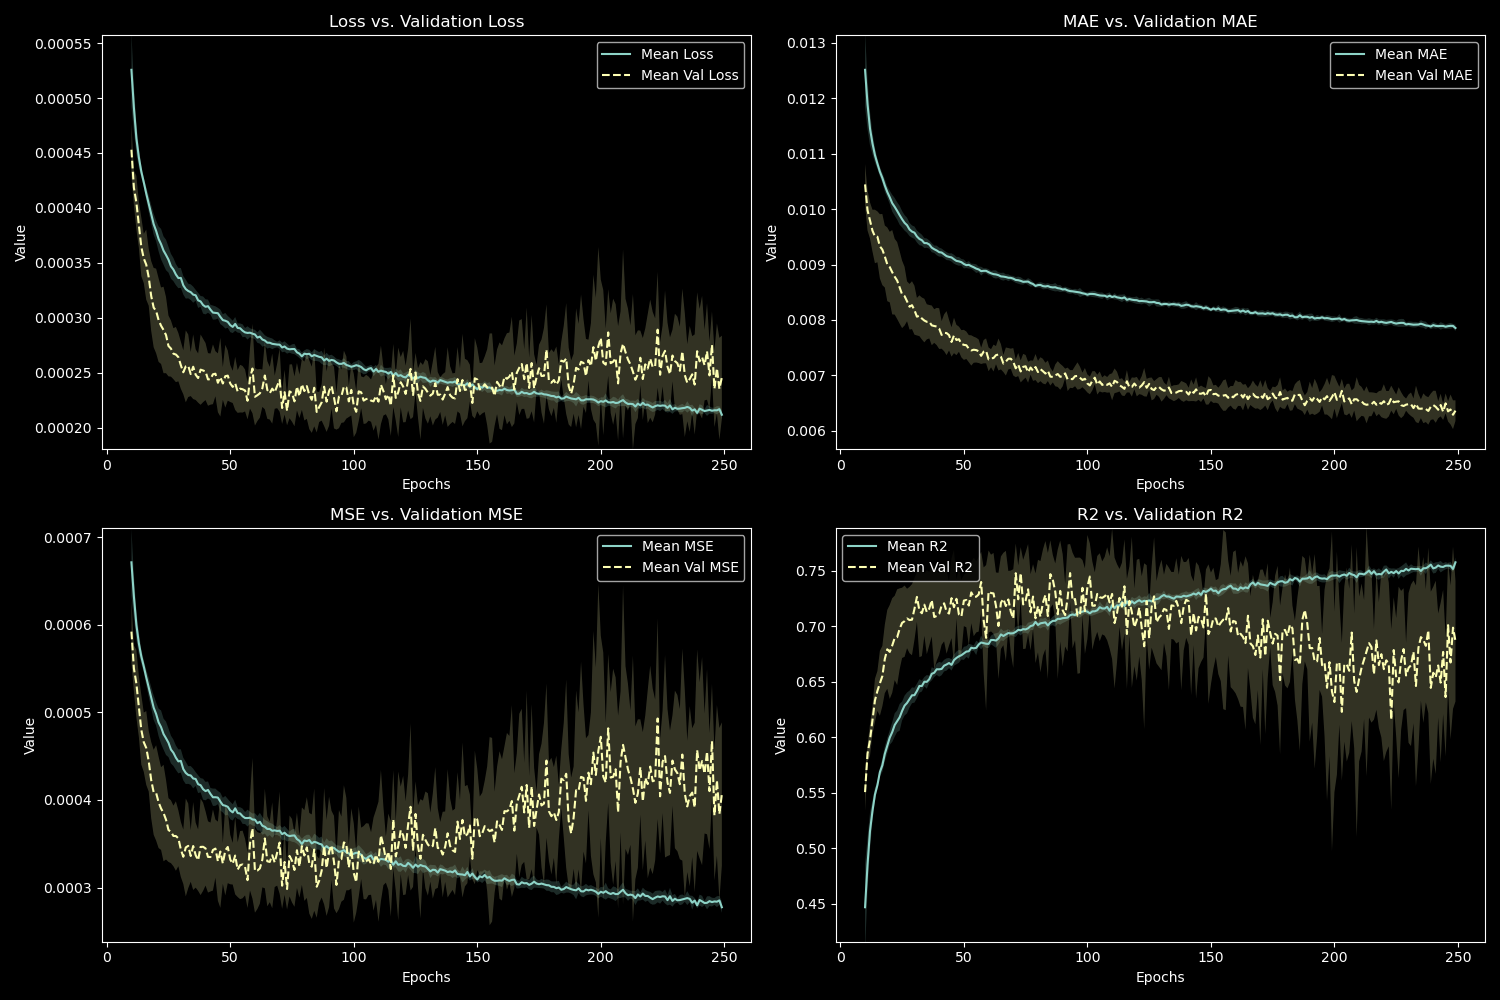
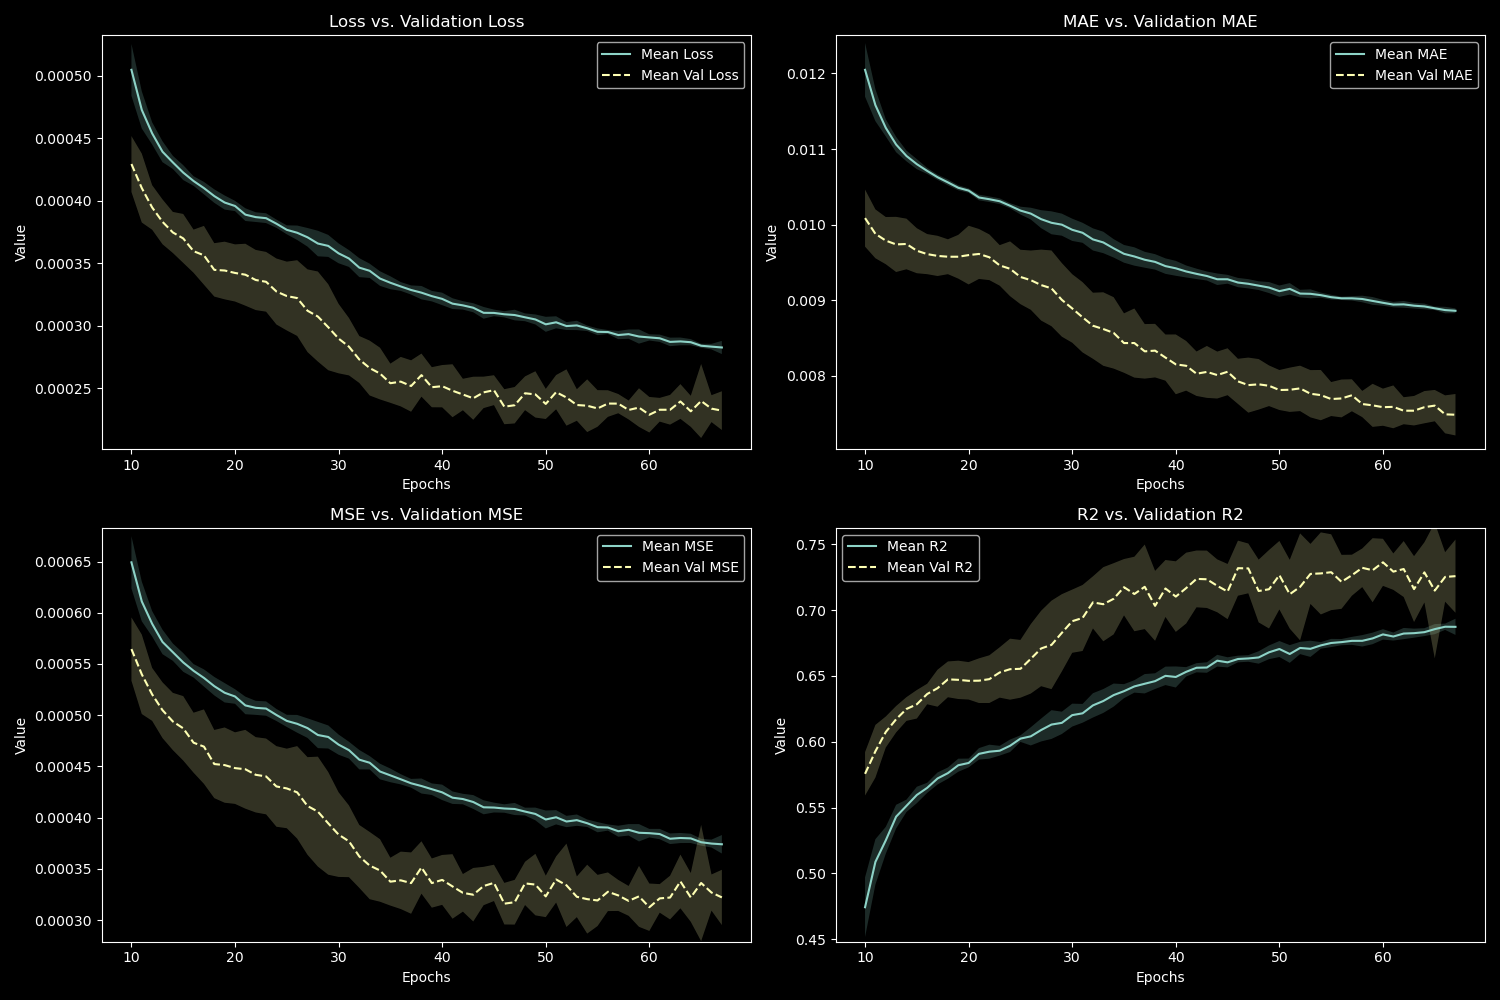
speed re-run

diff --git a/speed/speed_test.py b/speed/speed_test.py
@@ -7,6 +7,7 @@ from tensorflow.keras.models import load_model
 from xspec import FakeitSettings, AllModels, AllData, Model, Plot
 
 from modules.network import r_squared
+from general import save_figure
 
 from modules.variables import (
     path_to_data,
@@ -106,11 +107,11 @@ if 'norm' in model_file_path.name:
 flux_scaler = load(path_to_data_scaler / 'flux_scaler.joblib')
 predicted = []
 predicted_times = []
+model = load_model(model_file_path, custom_objects={'r_squared': r_squared})
 
 for i in range(n_spec):
     start_time = time.time()
     # Load the deep learning model
-    model = load_model(model_file_path, custom_objects={'r_squared': r_squared})
     model_par = parameters
     y_pred = model.predict(model_par.reshape(-1, model_par.shape[0]), verbose=0)
     y_pred_d = flux_scaler.inverse_transform(y_pred)
@@ -129,7 +130,8 @@ plt.xlabel("E (keV)", fontsize=14)
 plt.ylabel("counts / (keV s)", fontsize=14)
 plt.title("Comparison of XSPEC and ML Model Predictions", fontsize=16)
 plt.tight_layout()  # Adjust the plot to ensure everything fits without overlapping
-plt.savefig(path_to_plots / "spectra.png")
+#plt.savefig(path_to_plots / "spectra.png")
+save_figure(path_to_plots / "spectra.png")
     
 # Histogram
 plt.figure(figsize=(10, 6))
@@ -140,6 +142,7 @@ n_bins = max(len(set(times)), len(set(predicted_times)))  # Suggested dynamic bi
 plt.hist(times, bins=n_bins, alpha=0.7, label='Times XSPEC', color='blue', edgecolor='black', histtype='stepfilled')
 plt.hist(predicted_times, bins=n_bins, alpha=0.7, label='Times ML', color='orange', edgecolor='black', histtype='stepfilled')
 plt.yscale('log')
+plt.xscale('log')
 plt.xlabel('Time (s)', fontsize=14)
 plt.ylabel('Frequency', fontsize=14)
 plt.title('Times Distribution', fontsize=16)
@@ -147,5 +150,6 @@ plt.legend(fontsize=12)
 plt.grid(True, which='major', linestyle='--', linewidth=0.5, alpha=0.7)
 plt.tick_params(axis='both', which='major', labelsize=12)
 plt.tight_layout()  # Adjust the plot to ensure everything fits without overlapping
-plt.savefig(path_to_plots / "histogram.png")
+#plt.savefig(path_to_plots / "histogram.png")
+save_figure(path_to_plots / "histogram.png")
 plt.show()

diff --git a/training/plot_history.py b/training/plot_history.py
@@ -58,8 +58,8 @@ path_to_plots.mkdir(parents=True, exist_ok=True)
 logger = logging_conf(path_to_logs, "plot_history.log")
 logger.debug("Script started.")
 
-model = 'GRU'
-model_name = '256x6'
+model = 'ANN'
+model_name = '64x6'
 model_dir = path_to_results / model
 logger.debug(f"Models: {model_dir}")
 
@@ -72,7 +72,7 @@ if history_filename.exists():
 else:
     logger.debug('No history')
 
-skip = 0
+skip = 10
 history_df = pd.DataFrame(existing_history)
 # Create a figure with subplots arranged in a 2x2 grid
 fig, axs = plt.subplots(2, 2, figsize=(15, 10))

diff --git a/training/results.py b/training/results.py
@@ -37,8 +37,8 @@ from modules.variables import (
 
 # Define data and smoothing points
 data = 'models_100k'
-NN = 'GRU'
-arch = '256x4'
+NN = 'ANN'
+arch = '128x8'
 n_points = 0
 
 # Set up paths for logs and models
